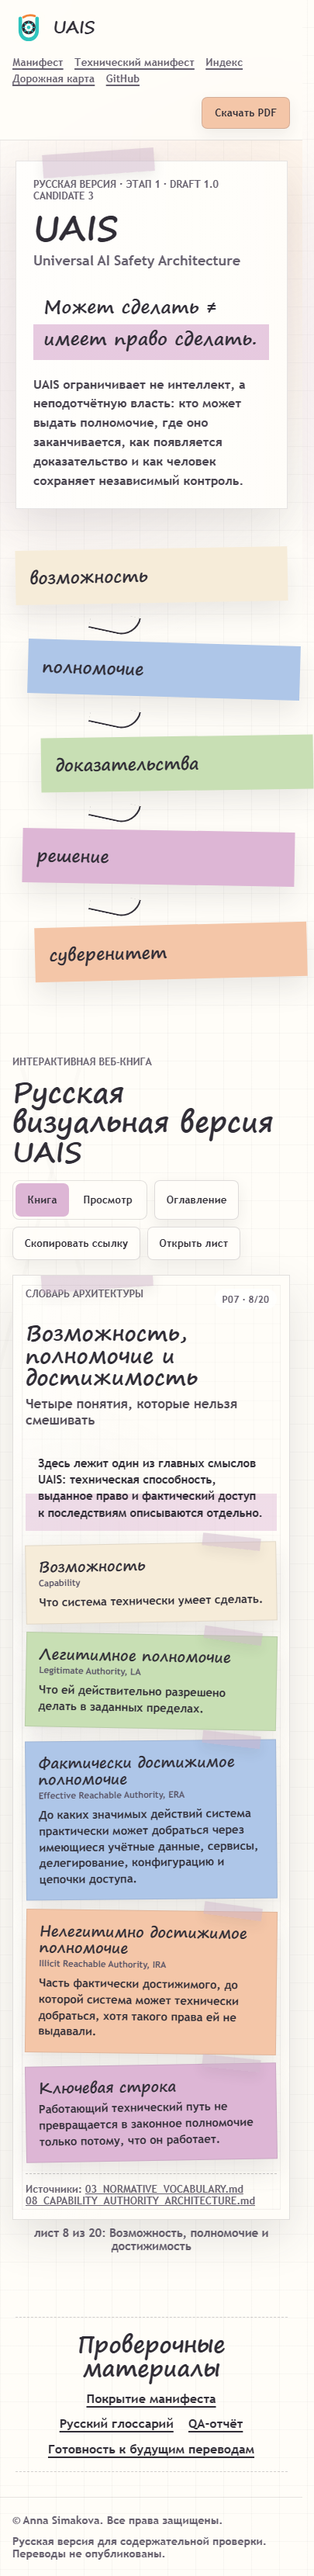
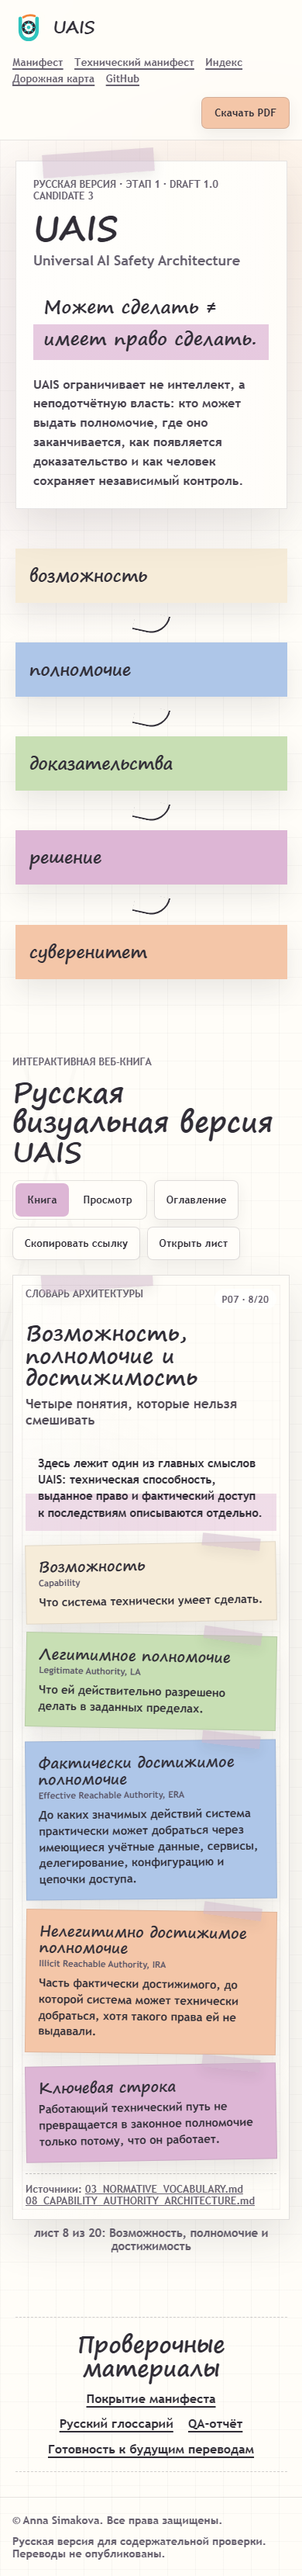
docs: fix mobile intro overflow

diff --git a/docs/styles.css b/docs/styles.css
@@ -906,6 +906,17 @@ h1 {
     grid-template-columns: 1fr;
   }
 
+  .intro-map span {
+    width: 100%;
+    margin-left: 0 !important;
+    transform: none;
+  }
+
+  .intro-map i {
+    width: 2.8rem;
+    margin-left: calc(50% - 1.4rem);
+  }
+
   .boundary-note {
     min-height: 4rem;
     border: 2px solid rgba(48,45,54,.48);
